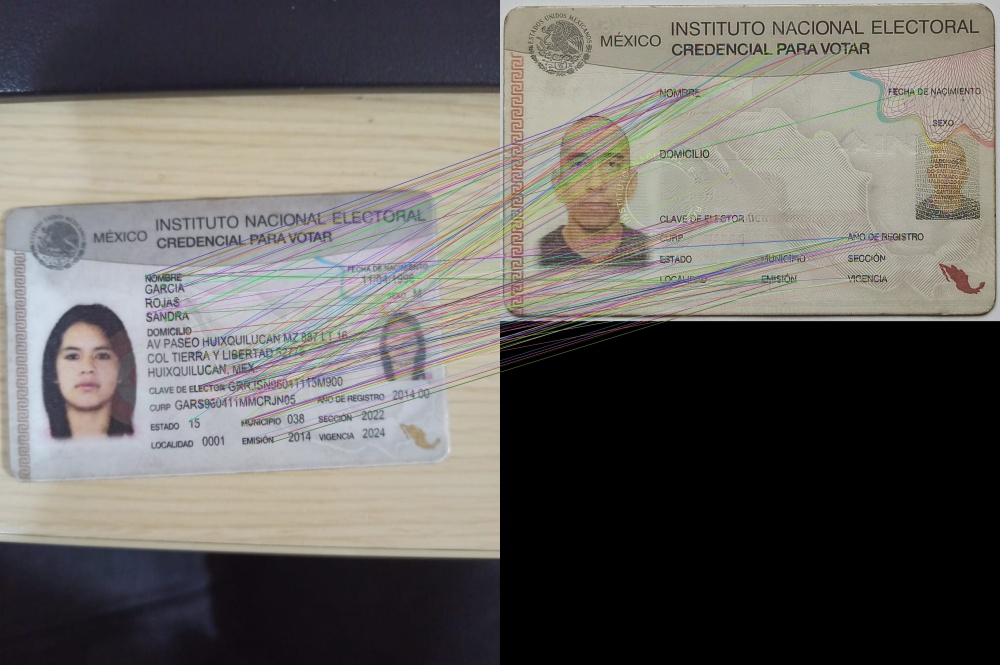
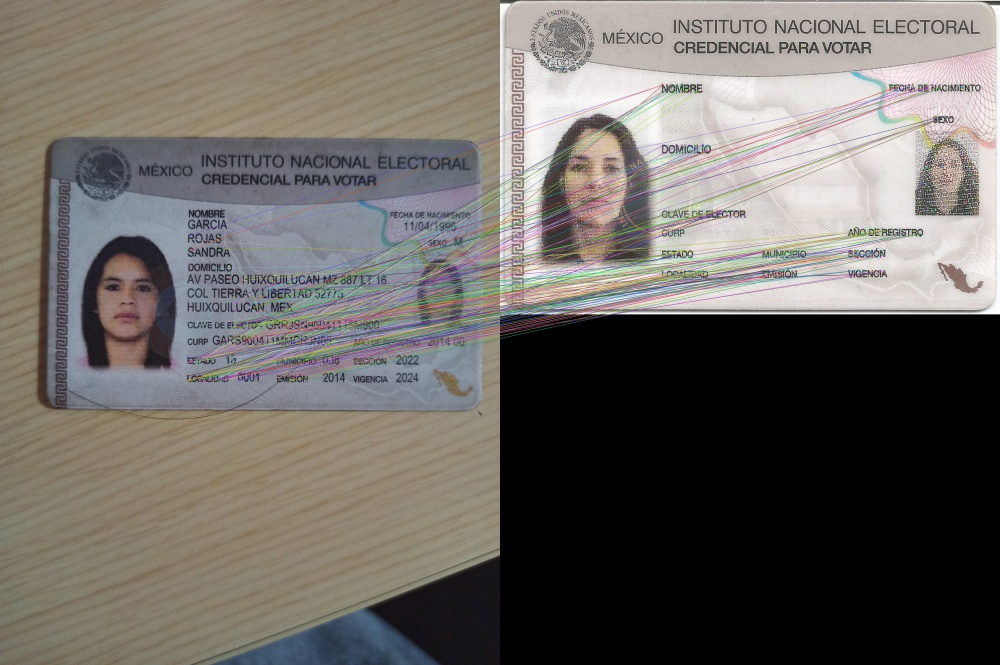
try

diff --git a/app/recognition/idRecognition.py b/app/recognition/idRecognition.py
@@ -99,10 +99,10 @@ def template(img):
     flag = False
 
     template = cv2.imread('app/templates/-2.jpeg')
-    pointEle = (488, 423)
-    pointEle2 = (784, 461)
-    pointNam = (290, 180)
-    pointNam2 = (655, 293)
+    pointEle = (488, 403)
+    pointEle2 = (784, 446)
+    pointNam = (300, 160)
+    pointNam2 = (665, 273)
 
     aligned, matchedVis = imageAlignment(image=img, template=template)
     elector, image = extractText(
